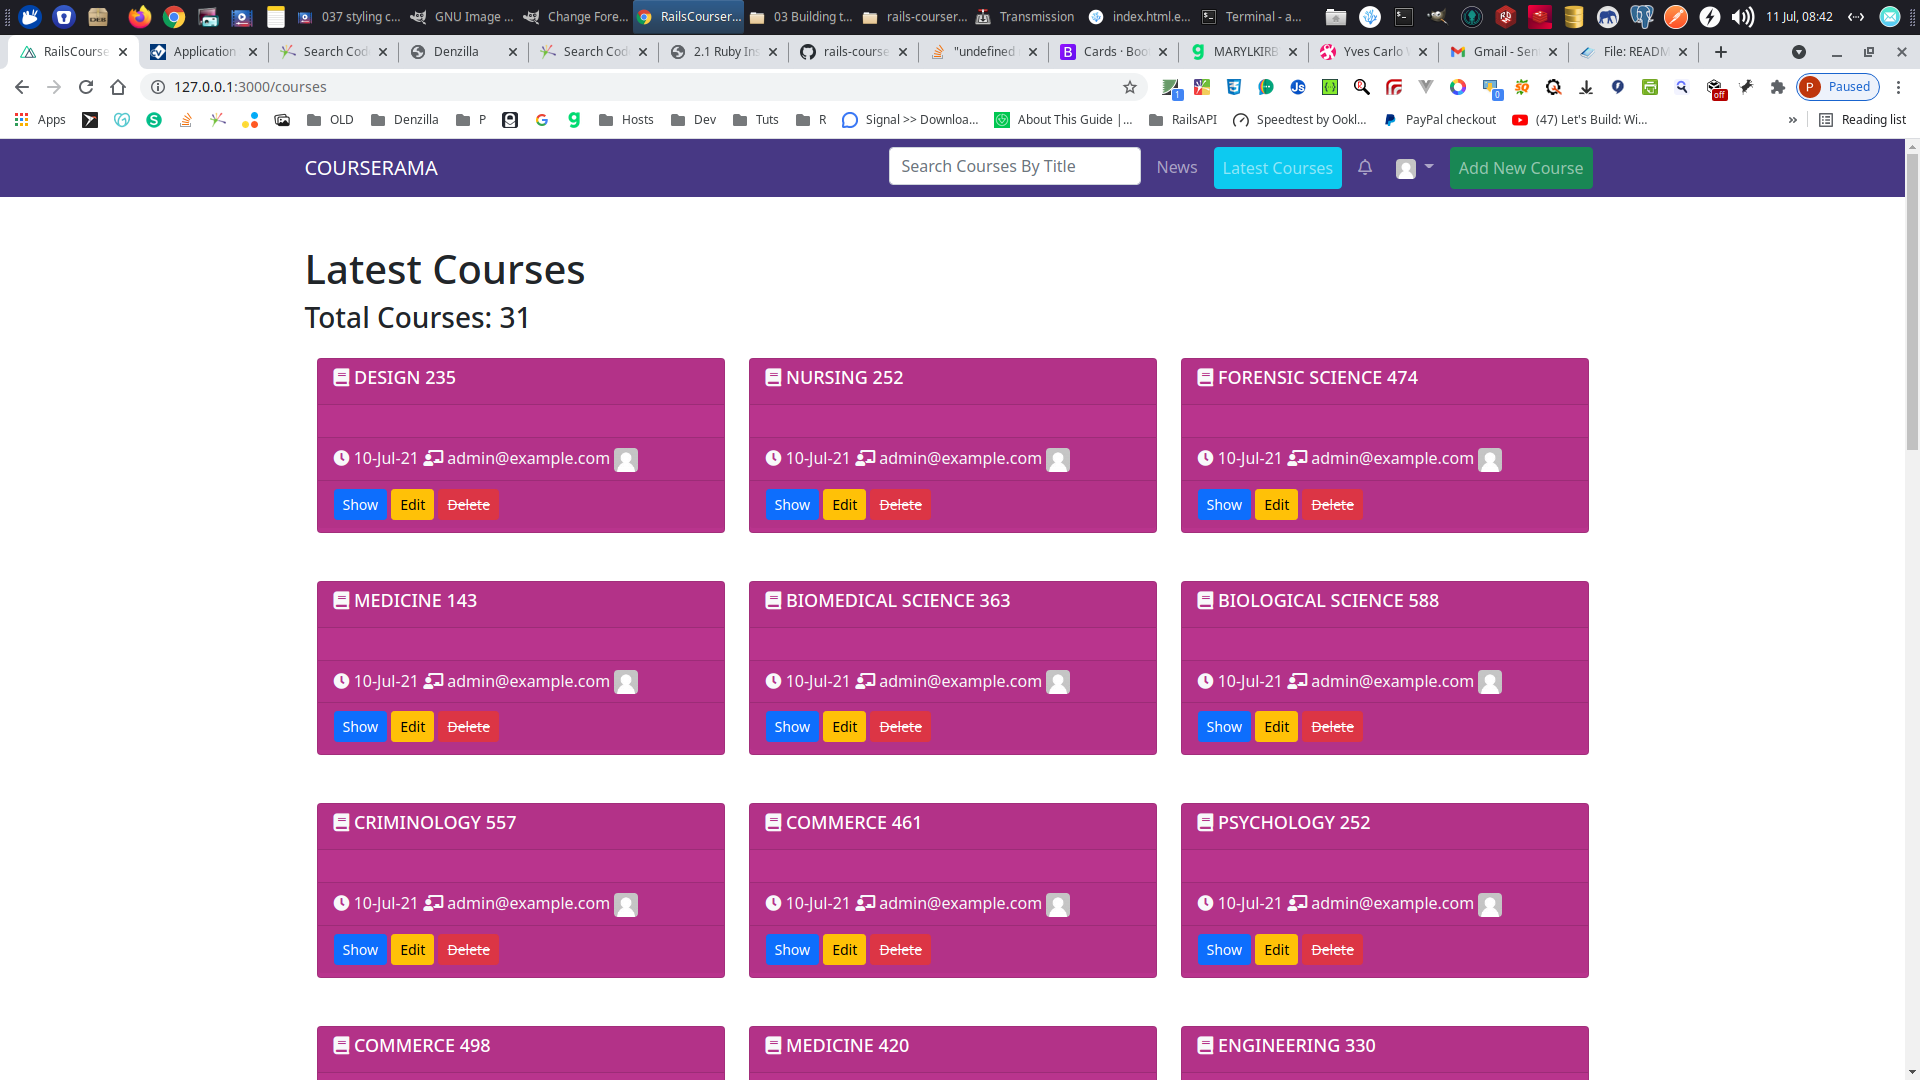
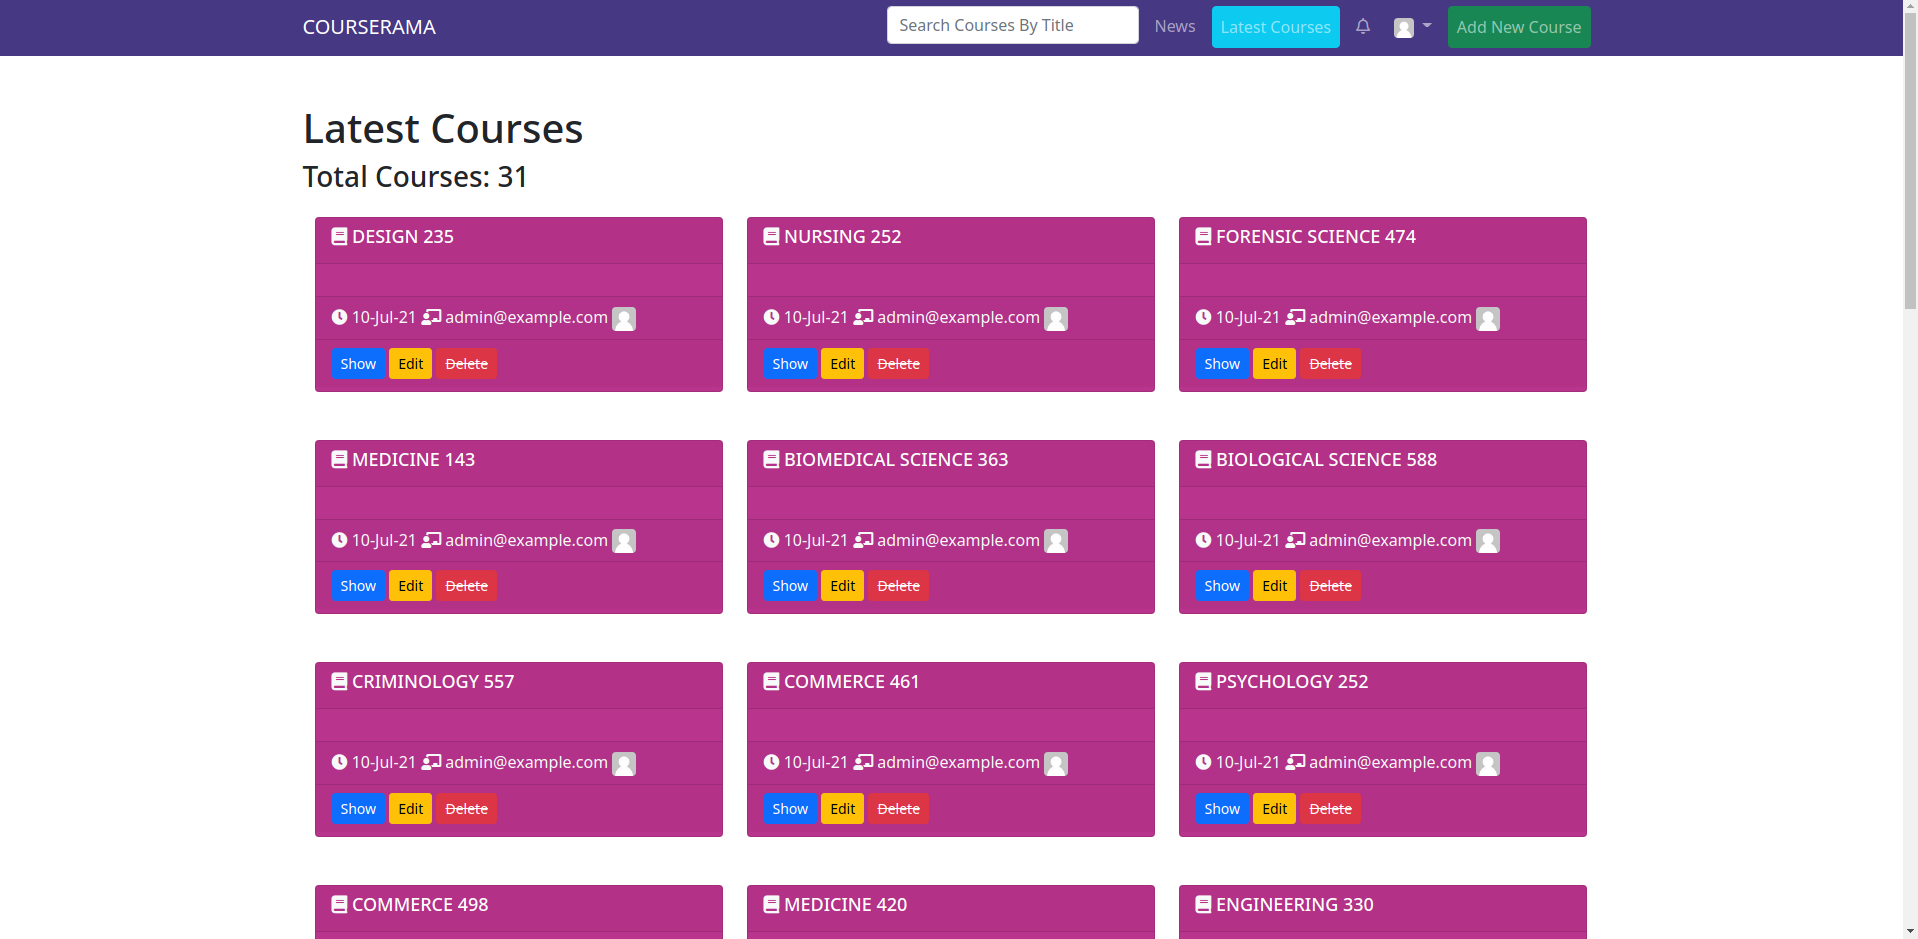
Update

diff --git a/app/assets/stylesheets/application.scss b/app/assets/stylesheets/application.scss
@@ -22,13 +22,20 @@ body > .alert {
 background-color:#473884!important;
 }
 .bg-secondary {
-background-color:#b9348d!important;
-
+background-color:#f5f5f5!important;
+}
+.btn-danger {
+border-color:#ec0f98;
+background-color:#ec0f98;
+}
+.course-grid {
+background-color: #efefef; 
+padding-left:50px;
+padding-right:50px;
 }
 .has-search .form-control {
   padding-left: 2.375rem;
 }
-
 .has-search .form-control-feedback {
   position: absolute;
   z-index: 2;
@@ -44,56 +51,12 @@ background-color:#b9348d!important;
 text-transform:uppercase;
 font-size: 18px;
 }
-
-
-.search {
+.search .form-control {
   width: 100%;
   margin-bottom: auto;
   margin-top: 20px;
   height: 50px;
-  background-color: rgb(241, 234, 234);
+  background-color: white;
   padding: 10px;
   border-radius: 5px
 }
-
-.search-input {
-  color: white;
-  border: 0;
-  outline: 0;
-  background: none;
-  width: 0;
-  margin-top: 5px;
-  caret-color: transparent;
-  line-height: 20px;
-  transition: width 0.4s linear
-}
-
-.search .search-input {
-  padding: 0 10px;
-  width: 100%;
-  caret-color: #536bf6;
-  font-size: 19px;
-  font-weight: 300;
-  color: black;
-  transition: width 0.4s linear
-}
-
-.search-icon {
-  height: 34px;
-  width: 34px;
-  float: right;
-  display: flex;
-  justify-content: center;
-  align-items: center;
-  color: white;
-  background-color: #536bf6;
-  font-size: 10px;
-  bottom: 30px;
-  position: relative;
-  border-radius: 5px
-}
-
-.search-icon:hover {
-  color: #fff !important
-}
-

diff --git a/app/controllers/home_controller.rb b/app/controllers/home_controller.rb
@@ -1,5 +1,8 @@
 class HomeController < ApplicationController
+  # skip_before_action :authenticate_user!, :only => [:index]
   def index
+    @courses = Course.all.limit(3)
+    @latest_courses = Course.all.limit(3).order(created_at: :desc)
   end
 
   def terms
